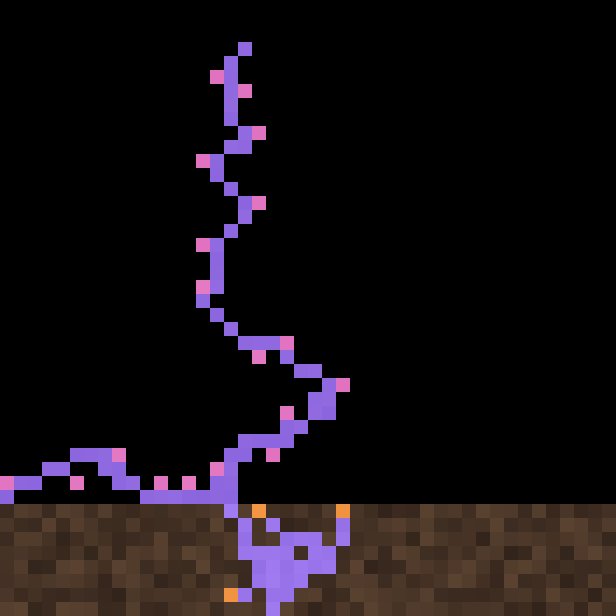
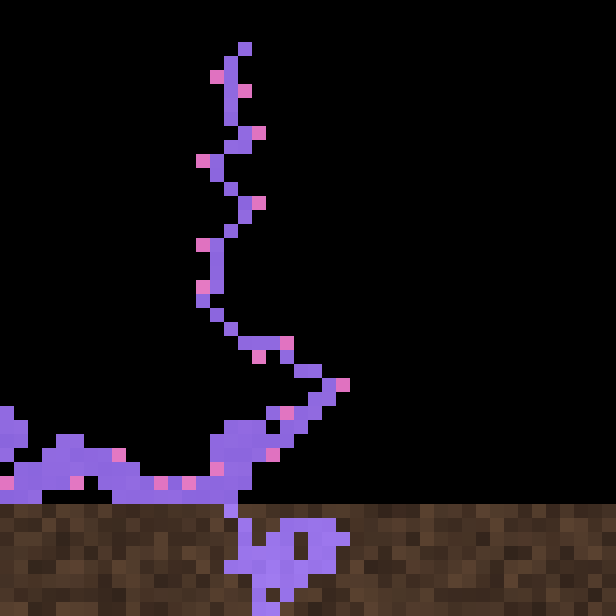
Report differentiation, not a percentile ratio that tracks tree shape
`plant_probe` reported `p99/p50` as a "strand contrast", and that number
*fell* from 6.1x to 2.4x across the `thicken()` fix -- a change that made
canalization plainly better. Nothing about the strands had changed; p99 sat
at the ceiling throughout. A thicker trunk means more cells legitimately
carry flux, which lifts the median, so a ratio against the median was
measuring how much undifferentiated tissue happened to be lying around: a
fact about tree shape, not about the mechanism.

Canalization claims a *split* -- some tissue becomes vascular, some does
not -- so report the shape of the distribution:

  differentiation: 35% undifferentiated / 40% partial / 25% vascular
  strand strength, p99 vs the basal floor: 9.99x of a possible 10x

That is `CLAUDE.md`'s "ask what a metric counts when nothing is wrong" for
the second time on this branch, and the second time the answer was "it
counts the basal slab". Both are now recorded where someone reaching for a
plant metric will see them.

Sheets re-shot after the contrast tuning and the `thicken()` fix, and the
README now says how to read the vein channel: brightness tracks what a cell
*carries*, so a thick lower trunk saturates and thin upper twigs go dark --
the pipe model, not a health readout.

diff --git a/examples/plant_probe.rs b/examples/plant_probe.rs
@@ -337,7 +337,37 @@ vein conductance (max face per cell), {}..{}:",
                 conductances.len(),
                 100.0 * basal as f32 / conductances.len() as f32
             );
-            println!("  strand contrast, p99/p50: {:.2}x (ceiling {:.0}x)", at(0.99) / at(0.5).max(1e-6), organism::CANALIZATION_CONTRAST);
+            // **Differentiation, not a ratio of percentiles.**
+            //
+            // `p99/p50` was the first thing reported here and it is
+            // actively misleading: it fell from 6.1x to 2.4x across a
+            // change that made canalization *better*, because a thicker
+            // trunk means more cells legitimately carry flux, which lifts
+            // the median. The strands were unchanged -- p99 sat at the
+            // ceiling throughout. A ratio against the median measures how
+            // much *undifferentiated* tissue happens to be lying around,
+            // which is a fact about tree shape, not about the mechanism.
+            //
+            // What canalization actually claims is a *split*: some tissue
+            // becomes vascular and some does not. So report the shape of
+            // the distribution -- how much sits at each end -- and let the
+            // reader see the split directly.
+            let span = organism::CONDUCTANCE_MAX - organism::CONDUCTANCE_MIN;
+            let near_floor = conductances.iter().filter(|c| **c < organism::CONDUCTANCE_MIN + span * 0.1).count();
+            let near_ceiling = conductances.iter().filter(|c| **c > organism::CONDUCTANCE_MIN + span * 0.9).count();
+            let middle = conductances.len() - near_floor - near_ceiling;
+            let pct = |n: usize| 100.0 * n as f32 / conductances.len() as f32;
+            println!(
+                "  differentiation: {:.0}% undifferentiated / {:.0}% partial / {:.0}% vascular",
+                pct(near_floor),
+                pct(middle),
+                pct(near_ceiling)
+            );
+            println!(
+                "  strand strength, p99 vs the basal floor: {:.2}x of a possible {:.0}x",
+                at(0.99) / organism::CONDUCTANCE_MIN,
+                organism::CANALIZATION_CONTRAST
+            );
         }
     }
 

diff --git a/docs/screenshots/plant-v2-polarity/README.md b/docs/screenshots/plant-v2-polarity/README.md
@@ -2,12 +2,24 @@
 
 Shot on the `forest` scene, the same scene the earlier plant sheets use.
 
-**Re-shot after the economy pass tuned the canalization contrast from 30:1
-to 10:1**, so these show polarity as tuned rather than as first landed. The
-change is visible: at 30:1 this tree was a bare whip, and at 10:1 it
-carries a long lateral branch and roughly twice the foliage. Establishment
-across the variant ensemble went 56% → 73% and biomass +29%; see
-`organism::VEIN_GAIN` for the table and the reasoning.
+**Re-shot after the economy pass**, so these show polarity as tuned and
+after the `thicken()` fix, not as first landed. Two changes are visible in
+them:
+
+- **Canalization contrast 30:1 → 10:1.** At 30:1 this tree was a bare whip;
+  it now carries a long lateral branch and roughly twice the foliage.
+  Establishment across the variant ensemble went 56% → 73%, biomass +29%.
+  See `organism::VEIN_GAIN`.
+- **`thicken()` measures the trunk's real cross-section.** The base is now
+  a tapering trunk rather than a slab spreading along the ground, and that
+  change roughly *doubled* establishment on its own (baseline 5/12 → 11/12)
+  because an unbounded trunk had been eating the seedling's own leaves. See
+  `plant::stem_width`.
+
+Read the vein sheet with the pipe model in mind: the thick lower trunk and
+the lateral branch are saturated because they carry the whole canopy's
+flux, and the thin upper twigs are dark because they carry almost none.
+Brightness tracks *what a cell carries*, not how alive it is.
 
 ```
 cargo run --release --example filmstrip -- scene=forest start=8000 every=1 count=1 cols=1 zoom=14 crop=64,4,44,44 channel=<off|celltype|vein>
@@ -54,16 +66,25 @@ sheet says *what and where* and only a number says *how much*:
 
 ```
 vein conductance (max face per cell), 1..10:
-  2445/6321 cells still at the basal floor (39%) -- undifferentiated tissue
-  strand contrast, p99/p50: 6.14x (ceiling 10x)
+  min 1.00  p50 4.25  p90 9.88  p99 9.99  max 10.00
+  differentiation: 35% undifferentiated / 40% partial / 25% vascular
+  strand strength, p99 vs the basal floor: 9.99x of a possible 10x
 ```
 
-The median cell is essentially unpolarized while the top decile is
-saturated. That split is the mechanism working, and it is worth knowing
-that the *fraction of the available range* actually reached barely moved
-when the contrast was retuned (69% of 30:1, 61% of 10:1) — the mechanism
-works just as hard at the lower setting, it simply has less room to work
-in, which is what made 10:1 a cheap trade for the establishment gain.
+A quarter of the tissue is fully vascular, a third has never carried
+anything, and strands reach the ceiling. That split is the mechanism
+working.
+
+**A metric that had to be replaced, and it is the interesting part.** This
+originally reported `p99/p50` as a "strand contrast", and that number
+*fell* from 6.1x to 2.4x across a change that made canalization plainly
+better (the `thicken()` fix). Nothing about the strands had changed — p99
+sat at the ceiling throughout. A thicker trunk simply means more cells
+legitimately carry flux, which lifts the median, so a ratio against the
+median was measuring how much undifferentiated tissue happened to be lying
+around: a fact about tree *shape*, not about the mechanism. It now reports
+the shape of the distribution instead. `CLAUDE.md`'s "ask what a metric
+counts when nothing is wrong", for the second time on this branch.
 
 ## Two things not to misread
 
